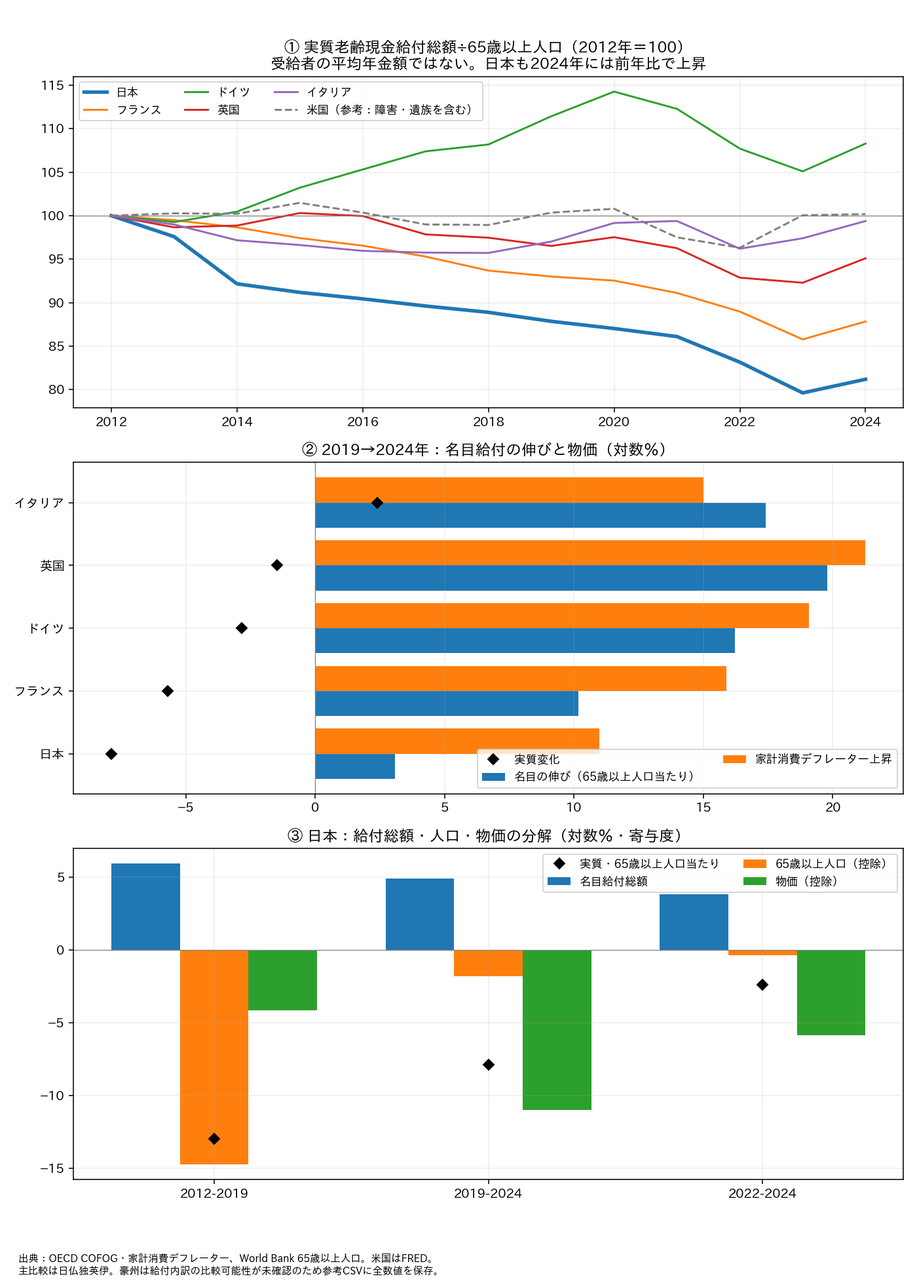
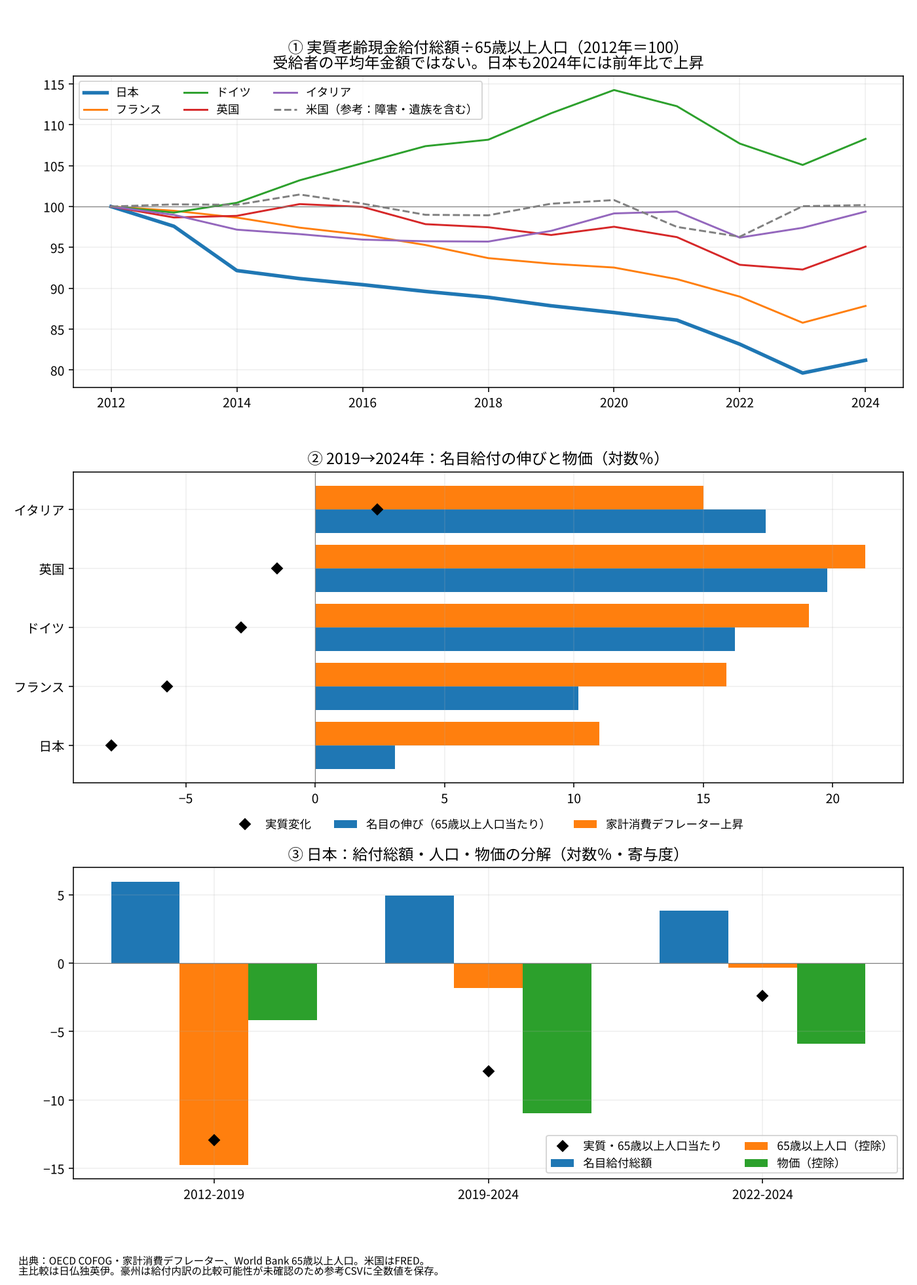
国際比較記事：査読後の結論を保ったまま本文を流れ重視に再構成
数値・回帰・改定表の詳細を付録へ移し、本文は長期の所得→2020年代の社会給付→年金の購買力→改定ルールの順に整理。図5の凡例の重なりを修正、再計算スクリプトの日本語フォント設定を japanize-matplotlib から環境内フォント検出に変更。URLを [URL](URL) 形式に統一し、README の紹介文を更新。

Claude-Session: https://claude.ai/code/session_015MVrCsK1cyZirVLp3L9eCr

diff --git a/家計消費の伸び悩み/code/intl/review_intl.py b/家計消費の伸び悩み/code/intl/review_intl.py
@@ -6,7 +6,17 @@ import pandas as pd
 import matplotlib
 matplotlib.use('Agg')
 import matplotlib.pyplot as plt
-import japanize_matplotlib  # noqa: F401
+from matplotlib import font_manager
+
+def _setup_jp_font():
+    """環境内の日本語フォント（Noto CJK など）を探して設定する。見つからなければ既定フォントのまま。"""
+    for name in ['Noto Sans CJK JP', 'Noto Sans JP', 'IPAexGothic', 'IPAGothic', 'Hiragino Sans', 'Yu Gothic', 'Meiryo']:
+        if any(f.name == name for f in font_manager.fontManager.ttflist):
+            plt.rcParams['font.family'] = name
+            return name
+    return None
+
+_setup_jp_font()
 
 HERE = Path(__file__).resolve().parent
 OUT = HERE.parent.parent
@@ -140,7 +150,7 @@ y=np.arange(len(g))
 ax[1].barh(y-.2,g.nominal,.4,label='名目の伸び（65歳以上人口当たり）')
 ax[1].barh(y+.2,g.prices,.4,label='家計消費デフレーター上昇')
 ax[1].plot(g.real,y,'kD',label='実質変化')
-ax[1].set_yticks(y,[N[x] for x in g.index]);ax[1].legend(fontsize=9,ncol=2)
+ax[1].set_yticks(y,[N[x] for x in g.index]);ax[1].legend(fontsize=9,ncol=3,loc='upper center',bbox_to_anchor=(.5,-.08),frameon=False)
 ax[1].axvline(0,color='gray',lw=.6)
 ax[1].set_title('② 2019→2024年：名目給付の伸びと物価（対数％）')
 g=PR[PR.area=='JPN'].set_index('period');x=np.arange(len(g))

diff --git a/家計消費の伸び悩み/02_国際比較で見る日本の家計消費.md b/家計消費の伸び悩み/02_国際比較で見る日本の家計消費.md
@@ -4,173 +4,175 @@
 
 GitHub：[https://github.com/p72/note-draft/blob/main/家計消費の伸び悩み/02\_国際比較で見る日本の家計消費.md](https://github.com/p72/note-draft/blob/main/%E5%AE%B6%E8%A8%88%E6%B6%88%E8%B2%BB%E3%81%AE%E4%BC%B8%E3%81%B3%E6%82%A9%E3%81%BF/02_%E5%9B%BD%E9%9A%9B%E6%AF%94%E8%BC%83%E3%81%A7%E8%A6%8B%E3%82%8B%E6%97%A5%E6%9C%AC%E3%81%AE%E5%AE%B6%E8%A8%88%E6%B6%88%E8%B2%BB.md)
 
-※ OECDの制度部門別勘定・消費支出・人口・政府機能別支出、World Bankの65歳以上人口、FREDの米国社会保障給付を用いた。制度の確認には厚生労働省の年金額改定資料を用いる。保存データからの再計算手順は [code/intl/README.md](code/intl/README.md)、査読記録は [review_02_2026-10-26.md](review_02_2026-10-26.md) にある。
+※ この記事は、OECDの国民経済計算（制度部門別勘定、支出側GDP、人口、政府の機能別支出）、World Bankの65歳以上人口、FREDの米国社会保障給付を用い、Pythonで作図・計算している。制度の確認には厚生労働省の年金額改定資料を用いた。2026年10月26日にGPTの査読を受けて、所得の定義の統一と年金指標の読み方を修正した。指摘と対応は [査読メモ](review_02_2026-10-26.md)、再計算の手順は [code/intl/README.md](code/intl/README.md) にある。数値の詳細と方法上の留保は末尾の付録にまとめた。
 
 ## はじめに
 
-前回の「[家計消費はなぜ伸びないのか](01_家計消費はなぜ伸びないのか.md)」では、若い勤労者世帯の年齢別平均で、消費性向の低下と預貯金純増率の上昇が見られることを確認した。本稿はその結果を踏まえ、家計全体の所得を国際比較し、最後に年金の購買力に焦点を当てる。
+前回の「[家計消費はなぜ伸びないのか](01_家計消費はなぜ伸びないのか.md)」では、若い勤労世帯の平均で、消費性向の低下と預貯金の積み増しが並んでいることを確かめた。しかし家計全体について見ると、期間によって答えが変わり、結論ははっきりしなかった。
 
-G7と韓国・豪州の9か国を比べると、日本では長期の実質可処分所得の伸びが小さい。最近の社会給付の増加による所得の押し上げも小さく、その内側を調べる対象として年金が重要になる。ただし、社会給付全体の弱さのうち何割が年金によるものかは、今回の統計だけでは分離していない。
+国内のデータだけでは、何が「普通」で何が「異常」なのか判断しにくい。そこで本稿では、同じ分解をG7と韓国・豪州の9か国に当てはめ、日本の位置を確かめる。
 
-年金に関する結論は、二つの異なる証拠から組み立てる。一つは**老齢向け現金給付総額を65歳以上人口で割った購買力の指標**、もう一つは**日本の年金額の改定ルールと実際の改定率**である。前者は国際比較、後者は制度の確認に用い、受給者の平均年金額と混同しない。
+見えてくるのは二つのことである。一つは、日本では長いあいだ家計の実質所得の伸びが他国より小さく、それを消費に回す割合の上昇で補ってきたこと。もう一つは、近年の物価上昇の中で、所得を支えるはずの社会給付の伸びも小さく、とりわけ高齢者が受け取る年金の購買力が他国以上に目減りしていることである。
 
 ## 分析の枠組み
 
-前稿と同じく、消費の変化を所得・物価・消費性向に分ける。
+前回と同じく、1人当たり実質消費の伸びを三つに分ける。
 
-> 1人当たり実質消費の伸び ＝ 1人当たり名目可処分所得の伸び − 消費デフレーターの上昇率 ＋ 平均消費性向の変化
+> 1人当たり実質消費の伸び ＝ 1人当たり名目可処分所得の伸び － 消費デフレーターの上昇率 ＋ 平均消費性向の変化
 
-各項は対数変化率で、最初の二つを合わせたものが1人当たり実質可処分所得の伸びである。恒等式として整合するが、消費や所得を動かした原因を識別する式ではない。
+最初の二つを合わせたものが、1人当たり実質可処分所得の伸びである。この式は会計上の恒等式であり、形を描き分けることはできるが、原因までは教えてくれない。
 
-国際比較の本文・図1〜4では、9か国とも**家計＋対家計民間非営利団体（S1M）、総可処分所得（B6G）、暦年**に統一した。「総」は固定資本減耗を控除する前という意味で、給与明細の手取りとは異なる。所得・消費・雇用者報酬は総人口当たり、年金の図は65歳以上人口当たりである。総貯蓄率と前稿の純貯蓄率も区別する。
+国際比較では、9か国とも同じ定義（家計と対家計民間非営利団体を合わせた部門、固定資本減耗を差し引く前の総可処分所得、暦年）にそろえた。人口の増減の影響を除くため、すべて1人当たりで比べる。
 
 ## 長期で見ると、日本では所得の伸びが小さい
 
 図1は、2000年から2024年までの1人当たり実質消費の伸びを、実質可処分所得（青）と消費性向（緑）に分けたものである。
 
-日本の1人当たり実質消費の伸びは、9か国の中でイタリアに次いで低い。実質可処分所得は+6.4対数％にとどまり、消費性向の上昇+7.0対数％が加わって、実質消費は+13.5対数％増えた。所得の弱さを消費性向の上昇が補う姿である。なお、消費性向が上がったのは日本だけではなく、イタリアも同様である。
+日本の1人当たり実質消費の伸びは、9か国の中でイタリアに次いで低い。ほとんどの国では、所得が大きく伸び、消費性向はむしろ下がっている。所得の一部を貯蓄に回しながらも、消費は所得とともに増えてきた。
 
-これは家計全体の平均であり、前稿で確認した若年の勤労者世帯の消費性向低下と矛盾しない。集計範囲と期間が異なるからである。
+日本では、実質可処分所得の伸びが小さく、消費性向が上がることで消費を伸ばしてきた。日本の家計は「使わない」のではなく、所得の伸びが小さい中で、使う割合を高めてきたのである。これは家計全体の平均の話であり、前回見た若い勤労世帯の消費性向の低下とは、対象も期間も異なる。
 
 ![図1　2000→2024年：1人当たり実質消費の分解](02_chart_longrun.png)
 
 *図1　出典：OECDの制度部門別勘定・支出側国民経済計算・人口。家計＋非営利団体、総可処分所得。*
 
-図2は同じ期間の推移である。日本は所得も消費も伸びの低いグループに位置する。ただし、これは2000年を100とする成長の比較であり、購買力平価で換算した所得・生活水準の順位ではない。
+図2は同じ期間の推移である。日本は所得も消費も伸びの低いグループにあり、他国との差は年を追って広がってきた。ただし、これは2000年を基準にした伸びの比較であり、生活水準の高さの順位ではない。
 
 ![図2　1人当たり実質可処分所得と実質消費の推移](02_chart_index.png)
 
 *図2　出典：OECD。実質可処分所得は各国の家計最終消費支出デフレーターで実質化。*
 
-## 長期の所得分解では、雇用者報酬の寄与が小さい
+## 長期の所得の伸び悩みには、雇用者報酬の伸びの小ささがある
 
-図3は、2000〜2024年の1人当たり名目総可処分所得の増加率を、項目別に分けたものである。日本では、他国に比べて雇用者報酬の増加寄与が小さい。
+図3は、同じ期間の1人当たり名目可処分所得の増加を、項目別に分けたものである。他国では可処分所得の伸びの大半を雇用者報酬の増加が担っているが、日本ではその寄与が小さい。
 
-ただし、ここでの雇用者報酬は**総人口当たりの総額**であり、働く人の時間当たり賃金ではない。賃金水準に加え、雇用者数、労働時間、雇用構成、雇主の社会負担も影響する。長期の賃金の弱さと整合的ではあるが、その原因までこの図で確定することはできない。
+ここでの雇用者報酬は、人口1人当たりの総額である。働く人の時間当たりの賃金だけでなく、雇用者数や労働時間、雇い主が負担する社会保険料なども含まれる。長く賃金が伸びなかったことと整合的ではあるが、原因をこの図だけで確定することはできない。
 
-また、日本の2000〜2024年の名目可処分所得は+11.6対数％、物価は+5.2対数％だった。したがって、この期間は名目所得が物価を上回り、実質所得も増えている。問題は、実質所得の**増加幅が他国に比べて小さい**ことである。
+なお、この期間の日本は物価の上昇も小さかった。名目所得は物価を上回って伸び、実質所得もわずかながら増えている。問題は、その増え方が他国に比べて小さいことである。
 
 ![図3　2000→2024年：1人当たり名目総可処分所得の項目別寄与](02_chart_income.png)
 
-*図3　出典：OECD。寄与は開始年の総可処分所得に対する変化額の比率。雇主社会負担は雇用者報酬と社会負担の両側に含まれる。*
+*図3　出典：OECD。寄与は開始年の総可処分所得に対する変化額の比率。雇主の社会負担は雇用者報酬と社会負担の両側に含まれる。*
 
-## 2020年代：同じ期間・所得定義でも、社会給付の寄与は小さい
+## 2020年代：物価高の中で、社会給付の押し上げが小さい
 
-年金との比較期間もそろえるため、図4は2022年から2024年までの年次データで比較する。元の四半期比較は日本が純可処分所得、他国が総可処分所得であり、国によって終点も異なっていた。本文の比較は同一定義・同一期間に統一した。直近四半期の試算は付録Bで参考資料として位置づける。
+図4は、物価が大きく上がった2022年から2024年までを、同じ定義で比べたものである。
 
-日本の1人当たり実質消費は+0.40対数％で、9か国中5番目だった。名目総可処分所得は+4.71対数％、物価は+5.87対数％で、実質所得は−1.16対数％。消費性向の上昇+1.57対数％がこれを補っている。この期間の名目所得の伸びは、9か国の中で最も小さい。
+上段を見ると、この期間の日本の1人当たり実質消費は9か国の中ほどにある。ただし支え方は他国と違う。多くの国が消費性向を下げる中で、日本は実質所得が減り、消費性向を上げることで消費をつないでいる。名目所得の伸びは9か国で最も小さかった。
 
-下段の項目別寄与では、日本の雇用者報酬は+5.32ポイント、社会給付は+1.06ポイントだった。社会給付の寄与は英国+4.28、ドイツ+3.56、フランス+3.49、米国+2.83ポイントより小さい。カナダは+1.24ポイントで日本に近い。豪州の社会給付は保存年次原表で欠測のため比較しない。
+下段の名目所得の内訳を見ると、日本は雇用者報酬の寄与も多くの国より小さく、賃金の問題が解消したとは言えない。そのうえで目を引くのが社会給付である。英国・ドイツ・フランス・米国では、社会給付の増加が所得を大きく押し上げたが、日本ではその寄与が小さい。
 
-雇用者報酬の寄与も、同じ期間では日本が多くの国を下回っている。「賃金の問題は解消した」とは言えない。そのうえで本稿では、前稿の若い世帯の支出行動に続く論点として、**給付を受け取る高齢者側の購買力**を掘り下げる。
-
-社会給付D62には、年金に加えて失業給付・家族関連給付なども含まれる。図4の社会給付と、次の図5の一般政府の老齢向け給付は範囲が一致しないため、両者をそのまま同じ系列としてつなぐことはできない。
+社会給付には、年金のほか失業給付や家族関連の給付なども含まれる。そのうち何割が年金によるものかは、この統計だけでは分けられない。そこで次に、年金そのものに焦点を当てる。
 
 ![図4　2022→2024年：同一定義での消費・所得分解](02_chart_2022annual.png)
 
 *図4　出典：OECD年次原表。上段は対数％、下段は通常の増加率への寄与（％ポイント）。全9か国で同じ期間・総所得・部門を使用。*
 
-## 老齢給付の購買力は、日本で大きく低下している
+## 年金の購買力は、日本で大きく低下している
 
-図5は、OECDの政府機能別支出（COFOG）の「老齢」向け現金給付を、65歳以上人口で割り、家計消費デフレーターで実質化した指標である。
+図5は、政府の機能別支出のうち「老齢」向けの現金給付の総額を65歳以上人口で割り、物価で実質化した指標である。この指標は、受給者1人当たりの年金額そのものではない。65歳以上人口は受給者数と一致せず、給付には65歳未満への支給なども含まれうるからである。
 
-老齢向け現金給付には、老齢年金のほか、早期退職に伴う給付や一時金なども含まれうる。また、65歳以上人口は年金受給者数ではなく、給付の分子には65歳未満への支給も含まれうる。そのため、**この指標の低下率を、同じ受給者の年金の減額率とは読めない**。[国連のCOFOG分類](https://unstats.un.org/unsd/classifications/Econ/Structure/Detail/EN/4/10_2_0)にもとづく区別である。
+比べた日本・フランス・ドイツ・英国・イタリアの5か国の中で、2019年から2024年までのこの指標の低下は、日本が最も大きかった。他国の給付は名目で大きく伸びたが、日本の伸びは小さく、物価の上昇に追いつかなかった。英国やイタリアでは、2022年以降の給付の伸びが物価を上回っている。
 
-主比較の日・仏・独・英・伊の5か国では、2019〜2024年の指標の低下は日本が最も大きく、−7.9対数％だった。米国は障害・遺族を含む社会保障給付で範囲が異なるため、破線の参考系列とする。豪州も原データを捨てず参考表に残すが、給付内訳の比較可能性を確認できていないため、主比較には含めない。
-
-日本の低下を分解すると、2019〜2024年は名目給付総額+4.92対数％に対し、65歳以上人口+1.82対数％、物価+10.98対数％となる。この期間は人口増加よりも物価上昇の影響が大きく、人口当たりの名目給付の伸びが購買力を維持するには足りなかった。
-
-一方、2012〜2019年は名目給付総額+5.95対数％に対し、65歳以上人口が+14.74対数％増えており、人口分母の変化が大きい。支給開始年齢や受給者構成などを分けずに、この低下をすべて年金改定の抑制効果と解釈することはできない。
-
-また、「2012年から毎年減り続けた」わけではない。日本の指標は2024年には前年比約+2.0％へ反転した。ただし2019年や2022年の水準は回復していない。
+図5の下段は、日本の指標の変化を「給付総額」「65歳以上人口」「物価」に分けたものである。2010年代の低下は、主に65歳以上人口が増えたことによる。支給開始年齢の引き上げなども重なっており、この時期の低下をすべて年金額の抑制とみなすことはできない。これに対して2019年以降の低下は、主に物価の上昇による。人口の伸びは小さくなったが、給付の伸びが物価に追いつかなかった。なお、日本の指標は2024年には前年より上がったが、以前の水準は回復していない。
 
 ![図5　実質老齢現金給付総額÷65歳以上人口の国際比較](02_chart_pension.png)
 
-*図5　出典：OECD COFOG、World Bank、OECD家計消費デフレーター。米国はFREDの社会保障給付による参考系列。下段は日本の分子・分母・物価の分解。*
+*図5　出典：OECD COFOG、World Bank、OECD家計消費デフレーター。米国はFREDの社会保障給付による参考系列。下段は日本の給付総額・人口・物価の分解。*
 
-## 年金改定ルールからも、購買力の問題を確認する
+## 年金改定のルールからも、同じことが確かめられる
 
-人口分母に左右される国際比較を補うため、日本の年金額そのものの改定を確認する。厚生労働省の2023・2024年度の公表資料では、次のようになっている。
+国際比較の指標は人口の分母に左右されるため、日本の年金額の改定そのものも確かめておく。
 
-| 改定年度 | 改定に用いる前年の物価変動率 | 名目手取り賃金変動率 | スライド調整等 | 年金額改定率 |
-| --- | ---: | ---: | ---: | ---: |
-| 2023年度 | +2.5％ | +2.8％ | 当年−0.3％、過年度未調整分−0.3％ | 67歳以下+2.2％、68歳以上+1.9％ |
-| 2024年度 | +3.2％ | +3.1％ | −0.4％ | +2.7％ |
+日本の年金額は毎年度、前年の物価と賃金の伸びをもとに改定され、さらにマクロ経済スライドによる調整が加わる。物価が賃金より速く上がる局面では賃金の伸びが基準になり、そこからさらに調整が差し引かれる。厚生労働省の資料によれば、2023年度・2024年度とも、年金額の改定率は前年の物価上昇率を下回った。
 
-出典：[厚生労働省・2023年度改定](https://www.mhlw.go.jp/content/12600000/001076695.pdf)、[2024年度改定](https://www.mhlw.go.jp/content/12502000/001040881.pdf)。
+物価が上がっても、その上昇分がそのまま年金額に反映される仕組みにはなっていない。国際比較で見た日本の年金の購買力の低下は、この制度の性格とも整合的である。
 
-2023年度は賃金が物価を上回ったため、67歳以下は賃金、68歳以上は物価を基準にし、その後にスライド調整等を行った。2024年度は物価が賃金を上回ったため賃金を基準にし、さらにスライド調整を行った。単純にいつでも「賃金と物価の低い方」を使うわけではない。
+## 結論
 
-両年度とも、年金額の改定率は参考指標となった前年物価の上昇率を下回った。ここから、**物価が上がっても、その上昇分が年金額にすべて反映される仕組みではない**ことを確認できる。ただし、前年のCPIを用いた年度改定と、図5の暦年・消費デフレーターによる実質化は別の計算である。この表の差だけで当年度の実現購買力の低下率を算出することはできない。
+1. 2000年以降、日本の家計の実質所得の伸びは他国より小さく、消費に回す割合を高めることで消費を支えてきた。所得の伸び悩みには、雇用者報酬の伸びの小ささがある。
+2. 物価が上がった2022年以降も、日本の実質所得は減り、社会給付による所得の押し上げは他国より小さかった。
+3. 高齢者向けの現金給付を65歳以上人口当たりで見ると、2019年以降の購買力の低下は、比べた国の中で日本が最も大きい。日本の年金改定のルールも、物価の上昇分がそのまま年金に反映されない仕組みである。
 
-## 前回の記事との関係と結論
+前回の記事で見た若い世帯の慎重な支出に加えて、年金を受け取る側の購買力も、日本の家計消費を考えるうえで欠かせない論点である。
 
-前稿の若い勤労者世帯の消費性向低下は、本稿でも出発点である。国際比較によってそれを否定するのではなく、家計全体には所得の弱さもあり、高齢者については年金の購買力が別の制約になりうることを加える。
-
-1. 2000〜2024年の日本では、実質可処分所得の伸びが小さく、消費性向の上昇が消費を支えていた。所得分解では総人口当たり雇用者報酬の寄与が小さい。
-2. 2022〜2024年を同一定義で比較しても、日本の実質総可処分所得は減少し、社会給付による名目所得の押し上げも小さい。
-3. 年金に焦点を移すと、日本の老齢給付総額を65歳以上人口で割った実質指標は、主比較5か国で2019〜2024年の低下が最も大きい。日本の年金改定資料も、物価上昇分が年金額にすべて反映されないことを示している。
-
-**若い世帯の支出行動に加え、年金を受け取る側の購買力も、家計消費を考えるうえで重要である。** ただし、今回の比較は年金による消費押し下げ額や、給付を増やした場合の消費増加額を推定したものではない。
-
-次に必要なのは、年金収入の変化を受給者数・受給者構成・制度改定に分け、受給世帯の所得と消費につなぐ分析である。年金を物価並みに引き上げる政策を評価する際には、受給側の消費増だけでなく、財源を負担する側の所得・消費、将来への期待も合わせて考える必要がある。本稿の年金への焦点は、若年と高齢のどちらがより消費するかという政策順位を確定するものではない。
+ただし、本稿は年金がどれだけ消費を押し下げたか、給付を増やせばどれだけ消費が増えるかを推定したものではない。年金を物価並みに引き上げるには財源が必要であり、その負担が現役世代の所得や将来への不安にどう響くかも合わせて考える必要がある。次に必要なのは、年金収入の変化を受給者数や制度改定に分け、受給世帯の消費とつなぐ分析である。
 
 ## 付録A　主な数値
 
-1人当たり実質消費の分解。累積の対数％であり、通常の増減率とは異なる（通常の％は `100×(exp(対数％/100)−1)`）。四捨五入により表内の足し算が0.1ずれる場合がある。
+1人当たり実質消費の分解（累積の対数％）。四捨五入のため、表内の足し算が0.1ずれる場合がある。
 
 | 国 | 期間 | 実質消費 | 実質可処分所得 | 消費性向 | 名目総可処分所得 | 物価 |
 | --- | --- | ---: | ---: | ---: | ---: | ---: |
 | 日本 | 2000→2024 | +13.5 | +6.4 | +7.0 | +11.6 | +5.2 |
-| 米国 | 2000→2024 | +37.7 | +40.0 | -2.3 | +91.6 | +51.6 |
-| 英国 | 2000→2024 | +19.0 | +24.2 | -5.2 | +78.4 | +54.2 |
-| ドイツ | 2000→2024 | +19.2 | +21.6 | -2.3 | +67.3 | +45.7 |
-| フランス | 2000→2024 | +19.4 | +24.8 | -5.4 | +62.9 | +38.0 |
-| イタリア | 2000→2024 | +1.8 | -2.3 | +4.1 | +45.8 | +48.1 |
-| カナダ | 2000→2024 | +32.7 | +36.4 | -3.7 | +79.4 | +42.9 |
-| 韓国 | 2000→2024 | +55.1 | +59.4 | -4.3 | +116.4 | +57.0 |
-| 豪州 | 2000→2024 | +31.3 | +38.0 | -6.7 | +96.3 | +58.3 |
-| 日本 | 2022→2024 | +0.4 | -1.2 | +1.6 | +4.7 | +5.9 |
-| 米国 | 2022→2024 | +3.7 | +5.7 | -2.0 | +12.0 | +6.3 |
-| 英国 | 2022→2024 | -2.9 | +2.5 | -5.4 | +12.3 | +9.8 |
-| ドイツ | 2022→2024 | -0.0 | +0.4 | -0.4 | +9.0 | +8.7 |
-| フランス | 2022→2024 | +0.9 | +2.7 | -1.8 | +11.6 | +8.9 |
+| 米国 | 2000→2024 | +37.7 | +40.0 | −2.3 | +91.6 | +51.6 |
+| 英国 | 2000→2024 | +19.0 | +24.2 | −5.2 | +78.4 | +54.2 |
+| ドイツ | 2000→2024 | +19.2 | +21.6 | −2.3 | +67.3 | +45.7 |
+| フランス | 2000→2024 | +19.4 | +24.8 | −5.4 | +62.9 | +38.0 |
+| イタリア | 2000→2024 | +1.8 | −2.3 | +4.1 | +45.8 | +48.1 |
+| カナダ | 2000→2024 | +32.7 | +36.4 | −3.7 | +79.4 | +42.9 |
+| 韓国 | 2000→2024 | +55.1 | +59.4 | −4.3 | +116.4 | +57.0 |
+| 豪州 | 2000→2024 | +31.3 | +38.0 | −6.7 | +96.3 | +58.3 |
+| 日本 | 2022→2024 | +0.4 | −1.2 | +1.6 | +4.7 | +5.9 |
+| 米国 | 2022→2024 | +3.7 | +5.7 | −2.0 | +12.0 | +6.3 |
+| 英国 | 2022→2024 | −2.9 | +2.5 | −5.4 | +12.3 | +9.8 |
+| ドイツ | 2022→2024 | −0.0 | +0.4 | −0.4 | +9.0 | +8.7 |
+| フランス | 2022→2024 | +0.9 | +2.7 | −1.8 | +11.6 | +8.9 |
 | イタリア | 2022→2024 | +2.3 | +1.7 | +0.6 | +8.3 | +6.6 |
-| カナダ | 2022→2024 | -1.4 | +1.1 | -2.5 | +7.5 | +6.4 |
-| 韓国 | 2022→2024 | +3.2 | +5.2 | -1.9 | +10.6 | +5.5 |
-| 豪州 | 2022→2024 | -2.3 | -0.6 | -1.7 | +7.4 | +8.0 |
+| カナダ | 2022→2024 | −1.4 | +1.1 | −2.5 | +7.5 | +6.4 |
+| 韓国 | 2022→2024 | +3.2 | +5.2 | −1.9 | +10.6 | +5.5 |
+| 豪州 | 2022→2024 | −2.3 | −0.6 | −1.7 | +7.4 | +8.0 |
 
 老齢現金給付総額÷65歳以上人口の実質変化（累積の対数％）。米国は範囲が異なる参考値。
 
 | 期間 | 日本 | フランス | ドイツ | 英国 | イタリア | 米国（参考） |
 | --- | ---: | ---: | ---: | ---: | ---: | ---: |
-| 2012→2019 | -12.9 | -7.3 | +10.8 | -3.5 | -3.0 | +0.3 |
-| 2019→2024 | -7.9 | -5.7 | -2.9 | -1.5 | +2.4 | -0.2 |
-| 2022→2024 | -2.4 | -1.3 | +0.5 | +2.4 | +3.3 | +3.9 |
+| 2012→2019 | −12.9 | −7.3 | +10.8 | −3.5 | −3.0 | +0.3 |
+| 2019→2024 | −7.9 | −5.7 | −2.9 | −1.5 | +2.4 | −0.2 |
+| 2022→2024 | −2.4 | −1.3 | +0.5 | +2.4 | +3.3 | +3.9 |
 
-- 2000〜2024年の名目総可処分所得は、日本+11.6対数％（通常の増加率では約12％）。図3の項目別寄与は通常の増加率に対するポイントであり、対数％ではない。
-- 家計の総貯蓄率は日本で2000年約16.0％から2024年約9.5％へ低下した。総貯蓄率の分母は総可処分所得＋年金受給権の変動調整で、平均消費性向の単純な裏返しではない。
-- 全9か国の分解・寄与は `review_annual_decomp.csv`・`review_annual_income.csv`。年金指標は豪州・米国の参考値を含め `review_pension.csv`、年別指数は `review_pension_index.csv` に収録した。
+日本の老齢給付指標の分解（累積の対数％）。
+
+| 期間 | 名目給付総額 | 65歳以上人口（控除） | 物価（控除） | 実質・65歳以上人口当たり |
+| --- | ---: | ---: | ---: | ---: |
+| 2012→2019 | +5.9 | −14.7 | −4.2 | −12.9 |
+| 2019→2024 | +4.9 | −1.8 | −11.0 | −7.9 |
+
+日本の年金額改定（厚生労働省資料）。
+
+| 改定年度 | 前年の物価変動率 | 名目手取り賃金変動率 | スライド調整等 | 年金額改定率 |
+| --- | ---: | ---: | ---: | ---: |
+| 2023年度 | +2.5％ | +2.8％ | 当年−0.3％、過年度未調整分−0.3％ | 67歳以下+2.2％、68歳以上+1.9％ |
+| 2024年度 | +3.2％ | +3.1％ | −0.4％ | +2.7％ |
+
+2023年度は賃金が物価を上回ったため、67歳以下は賃金、68歳以上は物価を基準にした。2024年度は物価が賃金を上回ったため賃金を基準にした。いつでも単純に「賃金と物価の低い方」を使うわけではない。
+
+その他の主な数値は次のとおりである。
+
+- 2022→2024年の1人当たり名目総可処分所得の増加率に対する寄与（％ポイント）は、日本が雇用者報酬+5.3、社会給付+1.1。社会給付の寄与は英国+4.3、ドイツ+3.6、フランス+3.5、米国+2.8、カナダ+1.2。豪州は社会給付が欠測。
+- 日本の老齢給付指標は、2024年に前年比約+2.0％となった。
+- 家計の総貯蓄率は、日本で2000年の約16.0％から2024年の約9.5％へ低下した。総貯蓄率の分母は総可処分所得＋年金受給権の変動調整で、平均消費性向の単純な裏返しではない。
+- 全9か国の分解・寄与は `code/intl/review_annual_decomp.csv`・`review_annual_income.csv`、年金指標は `review_pension.csv`・`review_pension_index.csv` にある。
 
 ## 付録B　方法と留保
 
-- 年次はOECDの `DSD_NASEC10@DF_TABLE14`、`DSD_NAMAIN10@DF_TABLE1_EXPENDITURE`、`DSD_NAMAIN10@DF_TABLE3_POP_EMPNC` を使用。家計＋対家計民間非営利団体（S1M）、総可処分所得（B6G）、最終消費支出（P3）に統一。金額は各国通貨の百万単位、人口は千人単位で、増減率では定数倍は相殺される。水準の国際比較は行わない。
-- 物価は各国の家計最終消費支出の名目値÷連鎖実質値によるデフレーター。高齢者専用の物価指数ではなく、医療等の現物社会移転も家計最終消費支出とは別扱いである。
-- 項目別寄与は各項目の1人当たり変化額÷開始年の1人当たり総可処分所得。欠測はゼロとせず「その他」に含め、欠測項目名をCSVに残す。その他は経常移転等と未収録項目の残差である。
-- 元稿の `decomp_recent_q.csv`・`income_recent_q.csv` は更新せず作業記録として残す。日本はESRIの家計部門・純可処分所得、他国はOECDのS1M・総可処分所得で、固定資本減耗の扱いが異なる。フランスの終点は1四半期早く、韓国は2025年の年次。元コードは欠測を除いた平均や人口の前方補完を許すため、最新四半期の厳密な比較には追加点検が必要であり、本文の国別順位や寄与比較には使わない。
-- 2019〜2024年の日本についてOECDとESRIの増減率が近いことは、総・純や部門範囲が同じことを意味しない。内閣府の[分配系列の推計方法](https://www.esri.cao.go.jp/jp/sna/seibi/kenkyu/pdf/shiryo2_20140704.pdf)も、家計可処分所得を純ベースで定義している。
-- 年金指標は一般政府（S13）のCOFOG「老齢」GF1002・現金社会給付D62をWorld Bankの65歳以上人口（SP.POP.65UP.TO）で除し、家計消費デフレーターで実質化。介護等の現物給付全体や民間年金全体は含まない。受給者数・受給開始年齢・支給期間・国ごとの制度範囲は一致しない。
-- 米国はFRED `W823RC1A027NBEA`（10億ドル、年次）を百万ドルに換算した参考値。主比較5か国と範囲が異なる。豪州も同じCOFOGコードの原値は存在するが、伸びの大きさだけで誤りとは判断せず、内訳確認前の参考値として保存する。カナダ・韓国の当該内訳は本稿の取得データにない。
-- 図5の比較は2024年までで、2025年度以降の改定は含まない。国際比較の低下率をすべてマクロ経済スライドの効果とみなすことも、2024年までの結果で2026年の消費を説明しきることもできない。
-- 本稿の再計算は2026-10-26取得と記録された保存CSVに基づく。OECD・World Bank全系列の再取得照合は行っていない。制度説明は同日閲覧した公的資料による。再現スクリプトの検算内容と残る課題はREADMEと査読メモに記載した。
+- 年次データはOECDの `DSD_NASEC10@DF_TABLE14`、`DSD_NAMAIN10@DF_TABLE1_EXPENDITURE`、`DSD_NAMAIN10@DF_TABLE3_POP_EMPNC`。家計＋対家計民間非営利団体（S1M）、総可処分所得（B6G）、最終消費支出（P3）に統一した。「総」は固定資本減耗を差し引く前という意味で、給与明細の手取りとは異なる。
+- 物価は各国の家計最終消費支出の名目値÷連鎖実質値によるデフレーターで、CPIや高齢者向けの物価指数ではない。
+- 項目別寄与は、各項目の1人当たり変化額÷開始年の1人当たり総可処分所得。欠測はゼロとせず「その他」に含め、欠測項目名をCSVに残した。
+- 初版の2020年代比較（2022年平均→直近4四半期）は、日本が内閣府の純可処分所得（家計部門）、他国がOECDの総可処分所得（S1M）で定義が異なっていたため、本文から外した。作業記録として `decomp_recent_q.csv`・`income_recent_q.csv` を残している。内閣府の家計可処分所得は純ベースで定義されている。
+- 年金指標は、一般政府のCOFOG「老齢」（10.2）向け現金社会給付（D62）を、World Bankの65歳以上人口（SP.POP.65UP.TO）で割り、家計消費デフレーターで実質化した。老齢向け給付には早期退職給付や一時金なども含まれうる。介護などの現物給付や民間年金は含まない。受給者数・受給開始年齢・制度の範囲は国によって異なる。
+- 米国はFREDの社会保障給付（障害・遺族年金を含む）による参考値。豪州は同じコードの原値があるが、給付内訳の比較可能性を確認できていないため主比較から外した。カナダ・韓国は当該内訳が取得データにない。
+- 年金改定は前年のCPIを用いた年度単位の計算で、図5の暦年・消費デフレーターによる実質化とは別の計算である。改定表の差だけで実際の購買力の低下率を求めることはできない。図5の比較は2024年までで、2025年度以降の改定は含まない。
+- 本稿の数値は、2026年10月26日に取得した保存CSVからの再計算による。OECD・World Bankの全系列の再取得・照合は行っていない。
 
 出典：
 
-- [OECD Data Explorer](https://data-explorer.oecd.org/)
-- [OECD SDMX REST API](https://sdmx.oecd.org/public/rest/)
-- [World Bank：65歳以上人口](https://data.worldbank.org/indicator/SP.POP.65UP.TO)
-- [FRED：米国社会保障給付](https://fred.stlouisfed.org/series/W823RC1A027NBEA)
-- [内閣府：家計可処分所得・家計貯蓄率四半期別速報](https://www.esri.cao.go.jp/jp/sna/sonota/kakei/kakei_top.html)
-- [国連：COFOG 10.2.0「老齢」の定義](https://unstats.un.org/unsd/classifications/Econ/Structure/Detail/EN/4/10_2_0)
-- [厚生労働省：2023年度年金額改定](https://www.mhlw.go.jp/content/12600000/001076695.pdf)
-- [厚生労働省：2024年度年金額改定](https://www.mhlw.go.jp/content/12502000/001040881.pdf)
+- OECD Data Explorer：[https://data-explorer.oecd.org/](https://data-explorer.oecd.org/)
+- OECD SDMX REST API：[https://sdmx.oecd.org/public/rest/](https://sdmx.oecd.org/public/rest/)
+- World Bank「Population ages 65 and above, total」：[https://data.worldbank.org/indicator/SP.POP.65UP.TO](https://data.worldbank.org/indicator/SP.POP.65UP.TO)
+- FRED「Government social benefits to persons: Social security」：[https://fred.stlouisfed.org/series/W823RC1A027NBEA](https://fred.stlouisfed.org/series/W823RC1A027NBEA)
+- 内閣府「家計可処分所得・家計貯蓄率四半期別速報」：[https://www.esri.cao.go.jp/jp/sna/sonota/kakei/kakei\_top.html](https://www.esri.cao.go.jp/jp/sna/sonota/kakei/kakei_top.html)
+- 内閣府「分配系列の推計方法」：[https://www.esri.cao.go.jp/jp/sna/seibi/kenkyu/pdf/shiryo2\_20140704.pdf](https://www.esri.cao.go.jp/jp/sna/seibi/kenkyu/pdf/shiryo2_20140704.pdf)
+- 国連「COFOG 10.2 老齢」：[https://unstats.un.org/unsd/classifications/Econ/Structure/Detail/EN/4/10\_2\_0](https://unstats.un.org/unsd/classifications/Econ/Structure/Detail/EN/4/10_2_0)
+- 厚生労働省「2023年度の年金額改定」：[https://www.mhlw.go.jp/content/12600000/001076695.pdf](https://www.mhlw.go.jp/content/12600000/001076695.pdf)
+- 厚生労働省「2024年度の年金額改定」：[https://www.mhlw.go.jp/content/12502000/001040881.pdf](https://www.mhlw.go.jp/content/12502000/001040881.pdf)

diff --git a/家計消費の伸び悩み/review_02_2026-10-26.md b/家計消費の伸び悩み/review_02_2026-10-26.md
@@ -29,10 +29,10 @@
 
 ## 公的資料と残る課題
 
-- 純所得の定義：内閣府 https://www.esri.cao.go.jp/jp/sna/seibi/kenkyu/pdf/shiryo2_20140704.pdf （分配系列の節）
-- 老齢給付の範囲：国連 https://unstats.un.org/unsd/classifications/Econ/Structure/Detail/EN/4/10_2_0
-- 2023年度改定：厚労省 https://www.mhlw.go.jp/content/12600000/001076695.pdf
-- 2024年度改定：厚労省 https://www.mhlw.go.jp/content/12502000/001040881.pdf
-- 米国の系列定義・単位：https://fred.stlouisfed.org/series/W823RC1A027NBEA
+- 純所得の定義：内閣府 [https://www.esri.cao.go.jp/jp/sna/seibi/kenkyu/pdf/shiryo2\_20140704.pdf](https://www.esri.cao.go.jp/jp/sna/seibi/kenkyu/pdf/shiryo2_20140704.pdf) （分配系列の節）
+- 老齢給付の範囲：国連 [https://unstats.un.org/unsd/classifications/Econ/Structure/Detail/EN/4/10\_2\_0](https://unstats.un.org/unsd/classifications/Econ/Structure/Detail/EN/4/10_2_0)
+- 2023年度改定：厚労省 [https://www.mhlw.go.jp/content/12600000/001076695.pdf](https://www.mhlw.go.jp/content/12600000/001076695.pdf)
+- 2024年度改定：厚労省 [https://www.mhlw.go.jp/content/12502000/001040881.pdf](https://www.mhlw.go.jp/content/12502000/001040881.pdf)
+- 米国の系列定義・単位：[https://fred.stlouisfed.org/series/W823RC1A027NBEA](https://fred.stlouisfed.org/series/W823RC1A027NBEA)
 
 受給者ベースの同一定義の国際比較、年金制度による給付差の識別、年金受給世帯の消費反応は今後の課題。本文の年金への焦点は保持するが、このPRで消費停滞の原因の全量や政策乗数まで確定したとは扱わない。
